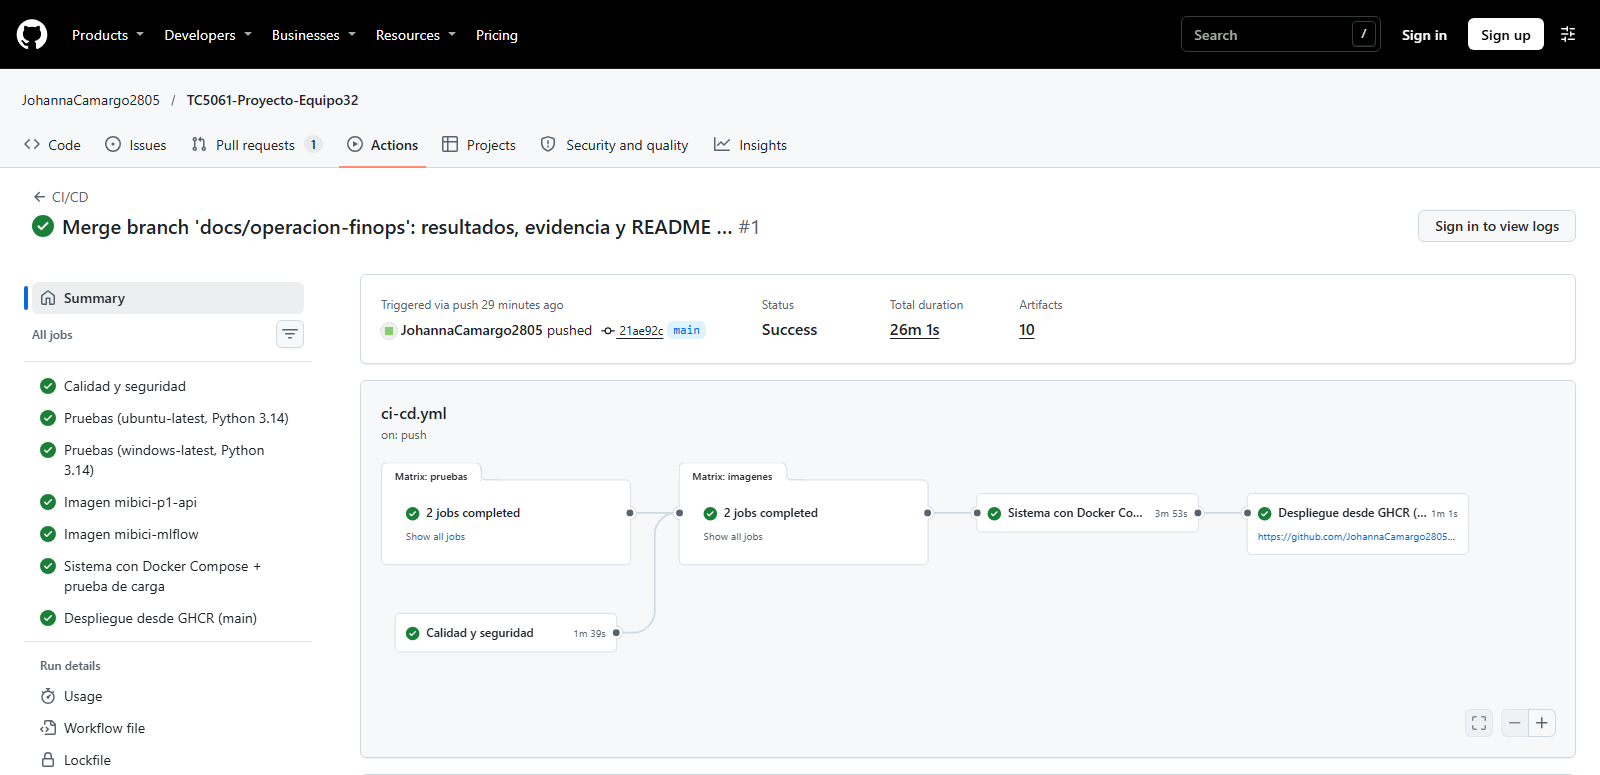
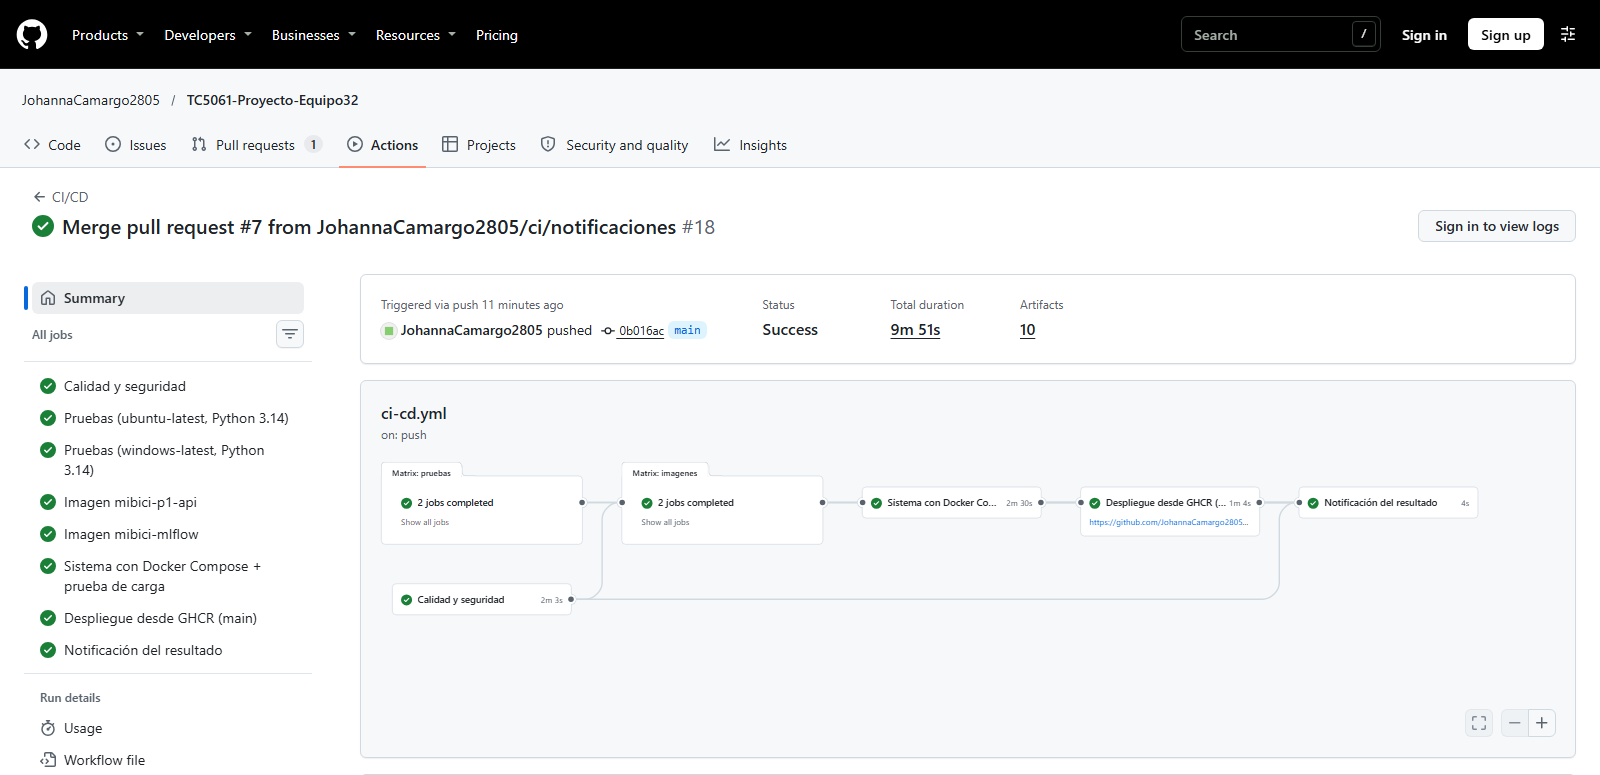
docs(entrega6): flujo con pull requests y evidencia del job notificar
README: fila del job notificar en la tabla del pipeline, la ejecucion #18 de
main (fusion del PR #7) con sus ocho jobs en verde y la subseccion "Flujo de
trabajo con Pull Requests" (PR #7 y #8, plantilla y criterio de fusion).
Capturas nuevas: la ejecucion #18, la lista de ejecuciones y el PR #7 con el
comentario del job notificar. CONTRIBUCIONES.md con los dos PR y el reporte
del escaner de secretos actualizado.

Claude-Session: https://claude.ai/code/session_01ReQvUtSfnCCX9MyHuLZovb

diff --git a/README.md b/README.md
@@ -32,6 +32,7 @@ PDF: `TC5061_Operacion_FinOps_Equipo32.pdf` (Canvas).
 | Consumo en reposo según la configuración | `scripts/medir_reposo.py` |
 | Costo por inferencia y escenarios de volumen | `finops/costo_inferencia.py`, `finops/precios_referencia.toml` |
 | Motor de inferencia en NumPy verificado contra el Pipeline (optimización medida) | `api/acelerado.py`, `scripts/perfil_inferencia.py` |
+| Flujo con Pull Requests (cada cambio entra por PR con el CI en verde) | `.github/pull_request_template.md`, [PR #7](https://github.com/JohannaCamargo2805/TC5061-Proyecto-Equipo32/pull/7) y [PR #8](https://github.com/JohannaCamargo2805/TC5061-Proyecto-Equipo32/pull/8) |
 | Pruebas | `tests/test_entrega6.py` (21), `tests/test_asincrono.py` (7), `tests/test_acelerado.py` (7) |
 | Resultados | `reports/carga/<corrida>/` y `reports/finops/` |
 
@@ -113,16 +114,38 @@ la opción de correr la prueba de carga completa en el runner).
 | `imagenes` | Construye la imagen de la API y la de MLflow, prueba la API en un contenedor (la predicción de referencia debe dar 64.549) y, en `main`, **publica ambas en GitHub Container Registry** (`sha-<commit>`, `modelo-v1`/`3.17.2`, `latest`) | **matriz** por imagen; caché de capas de Buildx en GitHub Actions |
 | `sistema` | `docker compose up --no-build --wait` con las 5 piezas, prueba la API servida desde el registry (síncrona y asíncrona) y corre una **prueba de humo con Locust + `docker stats`**; resumen en la página de la ejecución y reportes como artefacto | imágenes desde la caché de capas |
 | `despliegue` | Solo en `main`, entorno `produccion`: baja de GHCR las imágenes de ese commit **por digest**, levanta el sistema con ellas sin construir nada y verifica que responda | — |
+| `notificar` | Corre al final aunque algo falle: resume el resultado de cada job; en un *pull request* deja (y actualiza) un comentario con la tabla de resultados, y en `main` abre un issue `ci-fallo` asignado a la dueña del repositorio si algo falla (GitHub lo notifica por correo) y lo cierra al volver a verde | **notificaciones** |
 
 Para correrlo: basta con hacer *push*; el resultado se ve en la pestaña **Actions** del repositorio. Para levantar en
 cualquier máquina exactamente lo que se publicó: `API_IMAGEN=ghcr.io/johannacamargo2805/mibici-p1-api:latest
 MLFLOW_IMAGEN=ghcr.io/johannacamargo2805/mibici-mlflow:latest docker compose up -d --no-build --wait`.
 
-La ejecución [#1](https://github.com/JohannaCamargo2805/TC5061-Proyecto-Equipo32/actions/runs/44794465928) del commit `21ae92c` en `main` terminó **en verde**: sus siete jobs (calidad, pruebas en Ubuntu y en Windows, las imágenes de la API y de MLflow, el sistema completo y el despliegue) concluyeron con éxito en 26 minutos de reloj, compartiendo los runners con las ejecuciones de las nueve ramas, que también pasaron. Las imágenes quedaron públicas en GHCR con las etiquetas `sha-21ae92c` y `latest`, más `modelo-v1` (API) y `3.17.2` (MLflow).
+La ejecución [#18](https://github.com/JohannaCamargo2805/TC5061-Proyecto-Equipo32/actions/runs/44815760281) de `main` (commit `0b016ac`, la fusión del PR #7) terminó
+**en verde** con sus ocho jobs, incluido `notificar`. Antes, la ejecución
+[#1](https://github.com/JohannaCamargo2805/TC5061-Proyecto-Equipo32/actions/runs/44794465928) (commit `21ae92c`) había
+publicado por primera vez las imágenes en GHCR con las etiquetas `sha-<commit>` y `latest`, más `modelo-v1` (API) y
+`3.17.2` (MLflow); todas las ejecuciones de `main` y de las ramas están en verde.
 
 ![Ejecución en GitHub Actions](docs/evidencia/entrega6/e6_05_github_actions.png)
 
 ![Imagen publicada en GHCR](docs/evidencia/entrega6/e6_06_ghcr.png)
+
+#### Flujo de trabajo con Pull Requests
+
+Atendiendo la observación de la entrega anterior, el trabajo vuelve a entrar a `main` mediante *pull requests*: cada
+cambio se hace en una rama, se abre un PR con la plantilla `.github/pull_request_template.md` (qué cambia, cómo se probó y
+la lista de verificación), el pipeline corre sobre el PR y el job `notificar` comenta ahí el resultado, y el PR se fusiona
+con *merge commit* solo cuando todo está en verde.
+
+| PR | Rama | Contenido |
+|---|---|---|
+| [#7](https://github.com/JohannaCamargo2805/TC5061-Proyecto-Equipo32/pull/7) | `ci/notificaciones` | Job `notificar` del pipeline y plantilla de PR |
+| [#8](https://github.com/JohannaCamargo2805/TC5061-Proyecto-Equipo32/pull/8) | `docs/flujo-pull-requests` | Evidencia de la ejecución con notificaciones, este README y `CONTRIBUCIONES.md` |
+
+Las ramas anteriores de la entrega 6 (tabla de la sección 5) se integraron con `git merge --no-ff` antes de retomar este
+flujo.
+
+![PR #7 con el CI en verde y el comentario del job notificar](docs/evidencia/entrega6/e6_08_pr_notificaciones.png)
 
 ![Ejecuciones en main y en las ramas de la entrega](docs/evidencia/entrega6/e6_07_actions_lista.png)
 
@@ -291,6 +314,8 @@ Ramas de la versión individual integradas en `main` con `git merge --no-ff` (to
 | `fix/titulo-endpoints` | 1 | Título de la gráfica por endpoint con el número de usuarios entero |
 | `docs/evidencia-ci` | 1 | Capturas de la ejecución en verde de GitHub Actions y de la imagen en GHCR, README y contribuciones |
 | `docs/precision-error-carga` | 1 | Descripción precisa del único error de la prueba de carga |
+| `ci/notificaciones` (PR #7) | 2 | Job `notificar` del pipeline y plantilla de PR |
+| `docs/flujo-pull-requests` (PR #8) | 1 | Evidencia de la ejecución con notificaciones, README y contribuciones |
 
 **Uso de herramientas de IA.** El código, las pruebas y esta documentación se elaboraron con apoyo de Claude
 (Anthropic); los commits lo declaran con `Co-Authored-By: Claude`. Las pruebas de carga, las mediciones con `docker

diff --git a/CONTRIBUCIONES.md b/CONTRIBUCIONES.md
@@ -199,6 +199,10 @@ en `main` de este repositorio. Ramas y commits (todos a su nombre), integradas c
 | `fix/titulo-endpoints` | 1 | Título de la gráfica por endpoint con el número de usuarios entero (gráficas regeneradas) |
 | `docs/evidencia-ci` | 1 | Capturas de la ejecución #1 de GitHub Actions en verde y de la imagen publicada en GHCR, README y este archivo |
 | `docs/precision-error-carga` | 1 | Descripción precisa del único error de la prueba de carga (error de conexión del cliente, en 3 ms) |
+| `ci/notificaciones` → [PR #7](https://github.com/JohannaCamargo2805/TC5061-Proyecto-Equipo32/pull/7) | 2 | Job `notificar` del pipeline (comentario en el PR e issue `ci-fallo` si `main` falla) y plantilla de PR |
+| `docs/flujo-pull-requests` → [PR #8](https://github.com/JohannaCamargo2805/TC5061-Proyecto-Equipo32/pull/8) | 1 | Evidencia de la ejecución con notificaciones, README y este archivo |
+
+Atendiendo la observación de la entrega anterior, los dos últimos cambios entraron a `main` mediante *pull requests* (#7 y #8), con el pipeline de CI/CD en verde sobre cada PR antes de fusionarlo.
 
 Levantó el sistema con Docker Compose y corrió en su computadora las cinco pruebas de carga (base, escalado,
 optimizado, lote y asíncrona), las mediciones en reposo y el perfil de la inferencia
